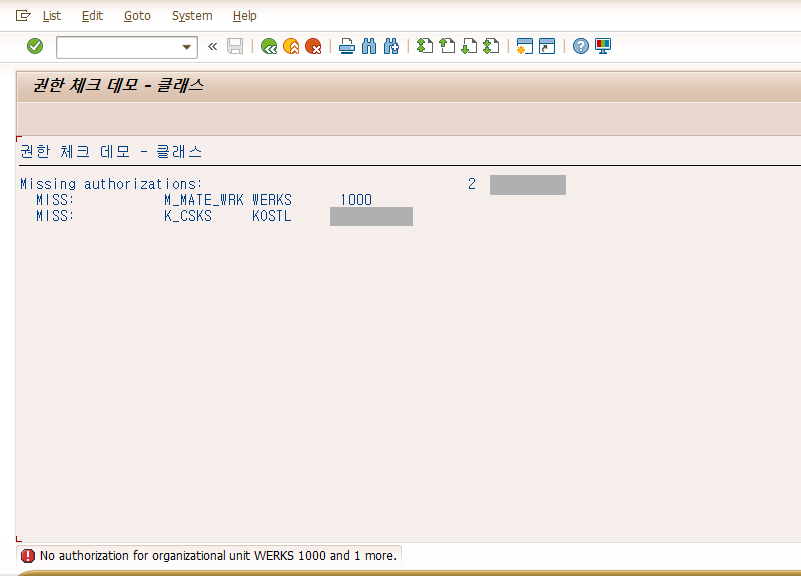
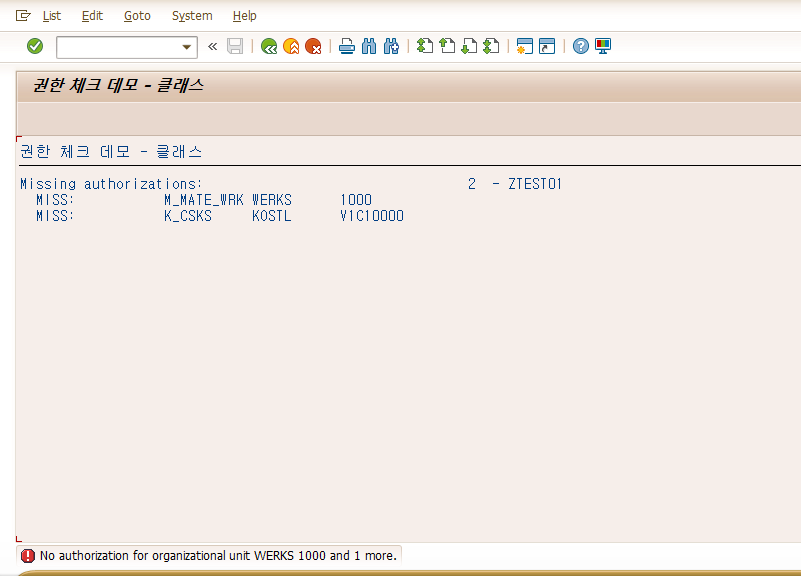
Restore original screenshots

Changed region(s): [[0.593, 0.2812, 0.7179, 0.3438], [0.4057, 0.3438, 0.5306, 0.4062]]

diff --git a/auth-check/index.html b/auth-check/index.html
@@ -346,8 +346,6 @@
   <tr><td>VALUE</td><td>XUVAL</td><td>체크할 값</td></tr>
 </table></div>
 
-<p class="sub">화면 캡처의 시스템 정보와 계정, 조직 값은 가려두었다.</p>
-
 <figure class="shot">
   <img src="images/05_01_se11_structure.png" alt="SE11 구조 ZCMS0070">
   <figcaption>구조 ZCMS0070. 체크 요청 1행의 형태</figcaption>
